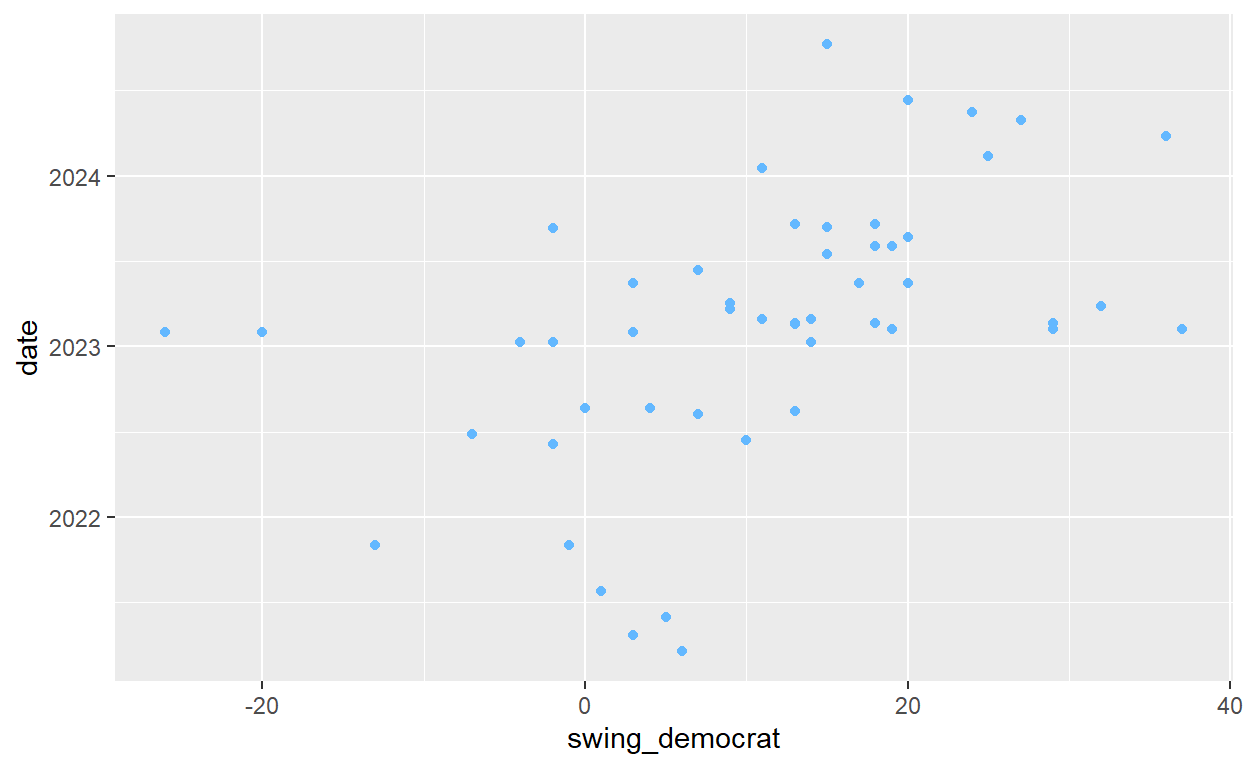
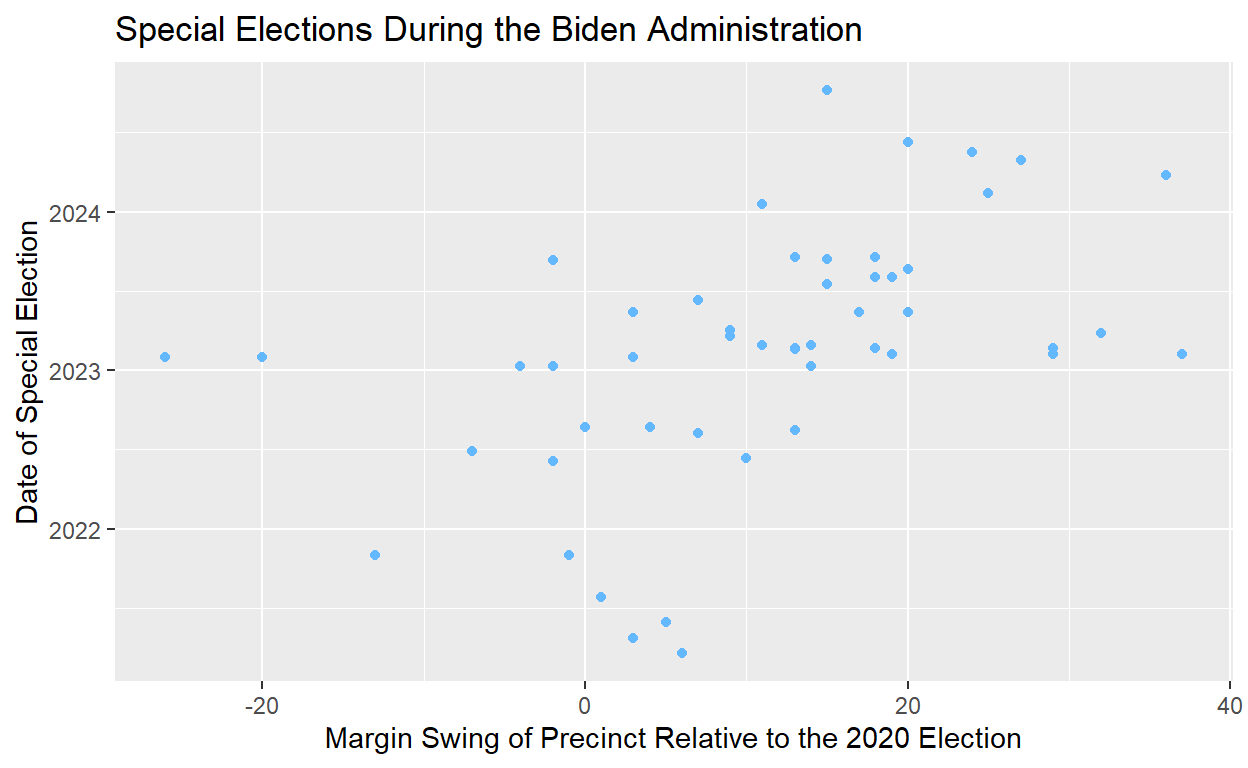
The end.

diff --git a/index.html b/index.html
@@ -88,29 +88,29 @@ code span.wa { color: #5e5e5e; font-style: italic; } /* Warning */
 
 
   <!--radix_placeholder_meta_tags-->
-  <title>PS270 Final Project</title>
+  <title>The Dobbs Democrats</title>
 
-  <meta property="description" itemprop="description" content="My final project"/>
+  <meta property="description" itemprop="description" content="How the Dobbs decision ignitied Democratic voters and took them to the polls"/>
 
 
   <meta name="article:author" content="Wolfi Vetter"/>
 
   <!--  https://developers.facebook.com/docs/sharing/webmasters#markup -->
-  <meta property="og:title" content="PS270 Final Project"/>
+  <meta property="og:title" content="The Dobbs Democrats"/>
   <meta property="og:type" content="article"/>
-  <meta property="og:description" content="My final project"/>
+  <meta property="og:description" content="How the Dobbs decision ignitied Democratic voters and took them to the polls"/>
   <meta property="og:locale" content="en_US"/>
 
   <!--  https://dev.twitter.com/cards/types/summary -->
   <meta property="twitter:card" content="summary"/>
-  <meta property="twitter:title" content="PS270 Final Project"/>
-  <meta property="twitter:description" content="My final project"/>
+  <meta property="twitter:title" content="The Dobbs Democrats"/>
+  <meta property="twitter:description" content="How the Dobbs decision ignitied Democratic voters and took them to the polls"/>
 
   <!--/radix_placeholder_meta_tags-->
   <!--radix_placeholder_rmarkdown_metadata-->
 
   <script type="text/json" id="radix-rmarkdown-metadata">
-  {"type":"list","attributes":{"names":{"type":"character","attributes":{},"value":["title","author","description","output"]}},"value":[{"type":"character","attributes":{},"value":["PS270 Final Project"]},{"type":"list","attributes":{},"value":[{"type":"list","attributes":{"names":{"type":"character","attributes":{},"value":["name"]}},"value":[{"type":"character","attributes":{},"value":["Wolfi Vetter"]}]}]},{"type":"character","attributes":{},"value":["My final project"]},{"type":"list","attributes":{"names":{"type":"character","attributes":{},"value":["distill::distill_article"]}},"value":[{"type":"list","attributes":{"names":{"type":"character","attributes":{},"value":["self_contained"]}},"value":[{"type":"logical","attributes":{},"value":[false]}]}]}]}
+  {"type":"list","attributes":{"names":{"type":"character","attributes":{},"value":["title","author","description","output"]}},"value":[{"type":"character","attributes":{},"value":["The Dobbs Democrats"]},{"type":"list","attributes":{},"value":[{"type":"list","attributes":{"names":{"type":"character","attributes":{},"value":["name"]}},"value":[{"type":"character","attributes":{},"value":["Wolfi Vetter"]}]}]},{"type":"character","attributes":{},"value":["How the Dobbs decision ignitied Democratic voters and took them to the polls"]},{"type":"list","attributes":{"names":{"type":"character","attributes":{},"value":["distill::distill_article"]}},"value":[{"type":"list","attributes":{"names":{"type":"character","attributes":{},"value":["self_contained"]}},"value":[{"type":"logical","attributes":{},"value":[false]}]}]}]}
   </script>
   <!--/radix_placeholder_rmarkdown_metadata-->
   
@@ -1518,7 +1518,7 @@ code span.wa { color: #5e5e5e; font-style: italic; } /* Warning */
 <!--radix_placeholder_front_matter-->
 
 <script id="distill-front-matter" type="text/json">
-{"title":"PS270 Final Project","description":"My final project","authors":[{"author":"Wolfi Vetter","authorURL":"#","affiliation":"&nbsp;","affiliationURL":"#","orcidID":""}]}
+{"title":"The Dobbs Democrats","description":"How the Dobbs decision ignitied Democratic voters and took them to the polls","authors":[{"author":"Wolfi Vetter","authorURL":"#","affiliation":"&nbsp;","affiliationURL":"#","orcidID":""}]}
 </script>
 
 <!--/radix_placeholder_front_matter-->
@@ -1528,11 +1528,11 @@ code span.wa { color: #5e5e5e; font-style: italic; } /* Warning */
 <!--/radix_placeholder_site_before_body-->
 
 <div class="d-title">
-<h1>PS270 Final Project</h1>
+<h1>The Dobbs Democrats</h1>
 
 <!--radix_placeholder_categories-->
 <!--/radix_placeholder_categories-->
-<p>My final project</p>
+<p>How the Dobbs decision ignitied Democratic voters and took them to the polls</p>
 </div>
 
 <div class="d-byline">
@@ -1546,10 +1546,9 @@ code span.wa { color: #5e5e5e; font-style: italic; } /* Warning */
 <h2 id="project-thoughts">Project thoughts</h2>
 <p>I am interested in exploring data related to…
 how Democrats have consistently overperformed in off-year elections since Roe v. Wade was overturned.</p>
-<p>Question: How do election results skew differently following the Supreme Court’s decision to overturn Roe v. Wade? I believe that the election results have skewed more heavily towards the Democratic party following the termination of Roe. This is evident in abortion ballot initiatives, the 2022 Congressional midterms, and special elections occurring in 2023 and 2024, leading up to the 2024 presidential election. In order to properly conclude this idea, I will need to show polls and subsequent exit polls for the 2022 midterms and special elections, not only in districts that lean Republican but also districts that lean Democratic. Thankfully I already have a small list of examples from both sides of thi coin which I can use as a starting base. Additionally, I recall an MSNBC video where Chris Hayes explains how Democrats have overperformed consistently in 2023 special elections by an average of 8 points. If I can find that video, it should have a list of these elections and can further help my case.</p>
+<p>Question: How do election results skew differently following the Supreme Court’s decision to overturn Roe v. Wade? I believe that the election results have skewed more heavily towards the Democratic party following the termination of Roe. This is evident in abortion ballot initiatives, the 2022 Congressional midterms, and special elections occurring in 2023 and 2024, leading up to the 2024 presidential election. In order to properly conclude this idea, I will need to show polls and subsequent exit polls for the 2022 midterms and special elections, not only in districts that lean Republican but also districts that lean Democratic. Thankfully I already have a small list of examples from both sides of this coin which I can use as a starting base. Additionally, I recall an MSNBC video where Chris Hayes explains how Democrats have overperformed consistently in 2023 special elections by an average of 8 points. If I can find that video, it should have a list of these elections and can further help my case.</p>
+<p>I find this data important because prior to the 2024 General Presidential Election, I used this as one of many factors to predict the 2024 Election. The fact that the elections have skewed more in favor of the Democratic candidates after the Dobbs decision have given a strong hint that the Democrats were being conisistently underestimated going into the 2024 election season.</p>
 <p>Democrats Overperforming in Special Elections 2023:</p>
-<p>(Look into special elections pre-dobbs, 2021 and 2022)</p>
-<p>(Make sure to commit everything)</p>
 <div class="layout-chunk" data-layout="l-body">
 <div class="sourceCode">
 <pre class="sourceCode r"><code class="sourceCode r"><span><span class='kw'><a href='https://rdrr.io/r/base/library.html'>library</a></span><span class='op'>(</span><span class='va'><a href='https://tidyverse.tidyverse.org'>tidyverse</a></span><span class='op'>)</span></span>
@@ -1571,12 +1570,14 @@ how Democrats have consistently overperformed in off-year elections since Roe v.
 10 8/9/2022  Minnesota HD-01  D+7                       7
 # ℹ 40 more rows</code></pre>
 </div>
+<p>I’ve labeled the whole dataset as Overperformance and made the following variables: Date, which refers to the date of a special election; precinct, which is where the special election took place; margin_swing, which tells us the victorious candidate in the special election and difference in their victory compared to the margin of victory either labeled by polls or by how the voters of the precinct voted in the 2020 election; and swing_democrat, which is the same numbers, but whichever district had a Republican margin swing the number would be a negative number.</p>
 <div class="layout-chunk" data-layout="l-body">
 <div class="sourceCode">
 <pre class="sourceCode r"><code class="sourceCode r"><span><span class='va'>data</span> <span class='op'>|&gt;</span> </span>
 <span>  <span class='fu'><a href='https://dplyr.tidyverse.org/reference/mutate.html'>mutate</a></span><span class='op'>(</span>date <span class='op'>=</span> <span class='fu'><a href='https://rdrr.io/r/base/as.Date.html'>as.Date</a></span><span class='op'>(</span><span class='va'>date</span>, format <span class='op'>=</span> <span class='st'>"%m/%d/%Y"</span><span class='op'>)</span><span class='op'>)</span> <span class='op'>|&gt;</span> </span>
 <span>  <span class='fu'><a href='https://ggplot2.tidyverse.org/reference/ggplot.html'>ggplot</a></span><span class='op'>(</span><span class='fu'><a href='https://ggplot2.tidyverse.org/reference/aes.html'>aes</a></span><span class='op'>(</span>x <span class='op'>=</span> <span class='va'>swing_democrat</span>, y <span class='op'>=</span> <span class='va'>date</span><span class='op'>)</span><span class='op'>)</span> <span class='op'>+</span></span>
-<span>  <span class='fu'><a href='https://ggplot2.tidyverse.org/reference/geom_point.html'>geom_point</a></span><span class='op'>(</span>color <span class='op'>=</span> <span class='st'>"steelblue1"</span><span class='op'>)</span></span></code></pre>
+<span>  <span class='fu'><a href='https://ggplot2.tidyverse.org/reference/geom_point.html'>geom_point</a></span><span class='op'>(</span>color <span class='op'>=</span> <span class='st'>"steelblue1"</span><span class='op'>)</span> <span class='op'>+</span></span>
+<span>    <span class='fu'><a href='https://ggplot2.tidyverse.org/reference/labs.html'>labs</a></span><span class='op'>(</span>title <span class='op'>=</span> <span class='st'>"Special Elections During the Biden Administration"</span>, x <span class='op'>=</span> <span class='st'>"Margin Swing of Precinct Relative to the 2020 Election"</span>, y <span class='op'>=</span> <span class='st'>"Date of Special Election"</span><span class='op'>)</span></span></code></pre>
 </div>
 <p><img src="index_files/figure-html5/unnamed-chunk-2-1.png" width="624" /></p>
 </div>
@@ -1587,7 +1588,8 @@ how Democrats have consistently overperformed in off-year elections since Roe v.
 <span>  <span class='fu'><a href='https://dplyr.tidyverse.org/reference/mutate.html'>mutate</a></span><span class='op'>(</span>date <span class='op'>=</span> <span class='fu'><a href='https://rdrr.io/r/base/as.Date.html'>as.Date</a></span><span class='op'>(</span><span class='va'>date</span>, format <span class='op'>=</span> <span class='st'>"%m/%d/%Y"</span><span class='op'>)</span><span class='op'>)</span> <span class='op'>|&gt;</span> </span>
 <span>  <span class='fu'><a href='https://dplyr.tidyverse.org/reference/slice.html'>slice</a></span><span class='op'>(</span><span class='fl'>1</span><span class='op'>:</span><span class='fl'>9</span><span class='op'>)</span> <span class='op'>|&gt;</span> </span>
 <span>  <span class='fu'><a href='https://ggplot2.tidyverse.org/reference/ggplot.html'>ggplot</a></span><span class='op'>(</span><span class='fu'><a href='https://ggplot2.tidyverse.org/reference/aes.html'>aes</a></span><span class='op'>(</span>x <span class='op'>=</span> <span class='va'>swing_democrat</span>, y <span class='op'>=</span> <span class='va'>date</span><span class='op'>)</span><span class='op'>)</span> <span class='op'>+</span></span>
-<span>  <span class='fu'><a href='https://ggplot2.tidyverse.org/reference/geom_point.html'>geom_point</a></span><span class='op'>(</span>color <span class='op'>=</span> <span class='st'>"steelblue1"</span><span class='op'>)</span></span></code></pre>
+<span>  <span class='fu'><a href='https://ggplot2.tidyverse.org/reference/geom_point.html'>geom_point</a></span><span class='op'>(</span>color <span class='op'>=</span> <span class='st'>"steelblue1"</span><span class='op'>)</span> <span class='op'>+</span></span>
+<span>  <span class='fu'><a href='https://ggplot2.tidyverse.org/reference/labs.html'>labs</a></span><span class='op'>(</span>title <span class='op'>=</span> <span class='st'>"Special Elections During the Biden Administration"</span>, x <span class='op'>=</span> <span class='st'>"Margin Swing of Precinct Relative to the 2020 Election"</span>, y <span class='op'>=</span> <span class='st'>"Special Elections Before the Dobbs Decision"</span><span class='op'>)</span></span></code></pre>
 </div>
 <p><img src="index_files/figure-html5/unnamed-chunk-3-1.png" width="624" /></p>
 </div>
@@ -1598,11 +1600,13 @@ how Democrats have consistently overperformed in off-year elections since Roe v.
 <span>  <span class='fu'><a href='https://dplyr.tidyverse.org/reference/mutate.html'>mutate</a></span><span class='op'>(</span>date <span class='op'>=</span> <span class='fu'><a href='https://rdrr.io/r/base/as.Date.html'>as.Date</a></span><span class='op'>(</span><span class='va'>date</span>, format <span class='op'>=</span> <span class='st'>"%m/%d/%Y"</span><span class='op'>)</span><span class='op'>)</span> <span class='op'>|&gt;</span> </span>
 <span>  <span class='fu'><a href='https://dplyr.tidyverse.org/reference/slice.html'>slice</a></span><span class='op'>(</span><span class='fl'>10</span><span class='op'>:</span><span class='fl'>50</span><span class='op'>)</span> <span class='op'>|&gt;</span> </span>
 <span>  <span class='fu'><a href='https://ggplot2.tidyverse.org/reference/ggplot.html'>ggplot</a></span><span class='op'>(</span><span class='fu'><a href='https://ggplot2.tidyverse.org/reference/aes.html'>aes</a></span><span class='op'>(</span>x <span class='op'>=</span> <span class='va'>swing_democrat</span>, y <span class='op'>=</span> <span class='va'>date</span><span class='op'>)</span><span class='op'>)</span> <span class='op'>+</span></span>
-<span>  <span class='fu'><a href='https://ggplot2.tidyverse.org/reference/geom_point.html'>geom_point</a></span><span class='op'>(</span>color <span class='op'>=</span> <span class='st'>"steelblue1"</span><span class='op'>)</span></span></code></pre>
+<span>  <span class='fu'><a href='https://ggplot2.tidyverse.org/reference/geom_point.html'>geom_point</a></span><span class='op'>(</span>color <span class='op'>=</span> <span class='st'>"steelblue1"</span><span class='op'>)</span> <span class='op'>+</span></span>
+<span>  <span class='fu'><a href='https://ggplot2.tidyverse.org/reference/labs.html'>labs</a></span><span class='op'>(</span>title <span class='op'>=</span> <span class='st'>"Special Elections During the Biden Administration"</span>, x <span class='op'>=</span> <span class='st'>"Margin Swing of Precinct Relative to the 2020 Election"</span>, y <span class='op'>=</span> <span class='st'>"Special Elections After the Dobbs Decision"</span><span class='op'>)</span></span></code></pre>
 </div>
 <p><img src="index_files/figure-html5/unnamed-chunk-4-1.png" width="624" /></p>
 </div>
 <p>This graph shows the special elections post Dobbs. The Margin swing heavily favors the Democrats in special elections following the Overturning of Roe.</p>
+<p>The resulting graphs, isolated as well as together, shows how rapidly and radically the Democrats had special election victories after Roe v. Wade was overturned. The American electorate had a massive backlash, indicating that they knew the Republican Party would not be willing to codify Roe into federal law, and as a result, made a massive effort to vote for Democrats so that they would have a chance to, if not codify Roe, at least prevent the Republican Party from taking abortion bans one step further than just the state level.</p>
 <div class="sourceCode" id="cb2"><pre class="sourceCode r distill-force-highlighting-css"><code class="sourceCode r"></code></pre></div>
 <!--radix_placeholder_article_footer-->
 <!--/radix_placeholder_article_footer-->
